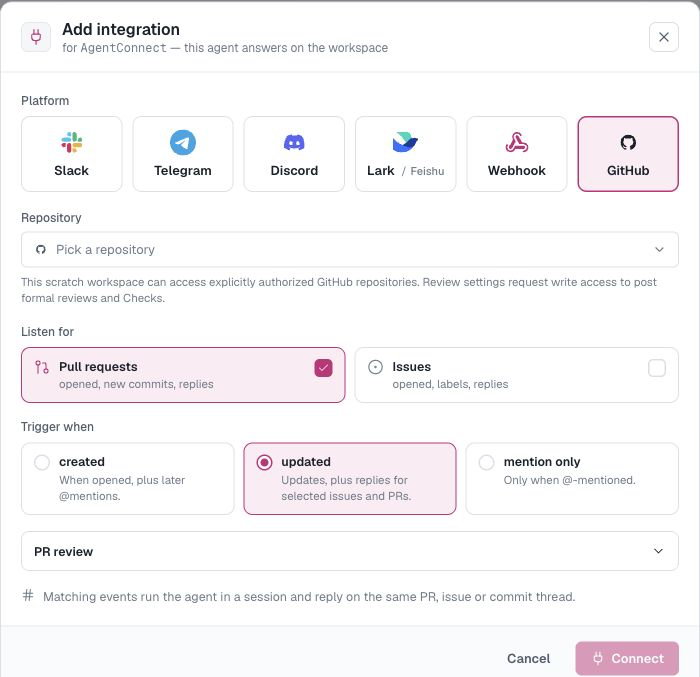
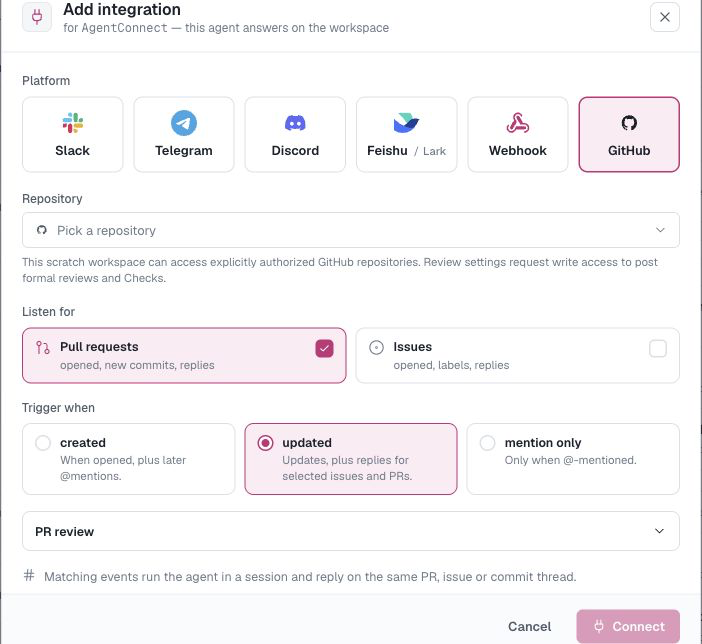
docs: expand screenshot coverage

diff --git a/docs/Getting Started/quickstart.md b/docs/Getting Started/quickstart.md
@@ -20,7 +20,9 @@ Open [AgentConnect Cloud](https://app.agentconnect.md), or the Web URL for your 
 
 Cloud supports GitHub, Google, and Slack sign-in. A self-hosted deployment can choose its own providers through Logto. The default local OSS stack runs without authentication and opens the console directly.
 
-![The AgentConnect sign-in page](https://raw.githubusercontent.com/agentconnect-md/docs/HEAD/images/login.png)
+<p align="center">
+  <img src="https://raw.githubusercontent.com/agentconnect-md/docs/HEAD/images/login.png" alt="The AgentConnect sign-in page" width="680" />
+</p>
 
 ## 2. Connect your daemon
 
@@ -28,7 +30,9 @@ A daemon runs agents in the environment you operate. It detects the runtimes ins
 
 The onboarding page creates a one-time connection command for you. Copy the exact command, run it on the target machine, and leave it running. The page waits for that daemon and continues automatically when it comes online.
 
-![Connect your daemon — the screenshot uses example values in place of a real URL, key, and daemon ID](https://raw.githubusercontent.com/agentconnect-md/docs/HEAD/images/add-daemon.png)
+<p align="center">
+  <img src="https://raw.githubusercontent.com/agentconnect-md/docs/HEAD/images/add-daemon.png" alt="Connect your daemon with example values" width="640" />
+</p>
 
 The foreground command is best for a first run. To keep the daemon running after logout or restart, see [Install the daemon](/docs/install-the-daemon).
 
@@ -54,7 +58,9 @@ After the daemon connects, onboarding reveals the same **Getting started** check
 
 The checklist reflects the current organization state, so work completed elsewhere is checked automatically.
 
-![The completed Getting started checklist with the built-in AgentConnect agent expanded](https://raw.githubusercontent.com/agentconnect-md/docs/HEAD/images/onboarding-checklist.png)
+<p align="center">
+  <img src="https://raw.githubusercontent.com/agentconnect-md/docs/HEAD/images/onboarding-checklist.png" alt="The completed Getting started checklist with the built-in AgentConnect agent expanded" width="780" />
+</p>
 
 ## 5. Start working
 

diff --git a/docs/Build Your Team/tools-and-skills.md b/docs/Build Your Team/tools-and-skills.md
@@ -6,6 +6,10 @@ hidden: false
 
 **Tools & Skills** is the organization library for capabilities your agents may use. Register an MCP provider, connector, or Git skill source once, then explicitly choose which agents receive it. New agents start with an empty tool and skill allowlist.
 
+<p align="center">
+  <img src="https://raw.githubusercontent.com/agentconnect-md/docs/HEAD/images/tools-skills.png" alt="Organization connectors, MCP servers, and skills" width="900" />
+</p>
+
 AgentConnect keeps organization management separate from agent enablement:
 
 | Capability | Add or manage it | Enable it for an agent |
@@ -22,6 +26,10 @@ Open **Tools & Skills** and use **Connectors & MCP servers** to register an upst
 
 - **Add connectors** browses the available OpenConnector providers and walks through their authorization.
 - **Custom MCP provider** connects an HTTP MCP endpoint by URL, with optional upstream headers.
+
+<p align="center">
+  <img src="https://raw.githubusercontent.com/agentconnect-md/docs/HEAD/images/mcp-server.png" alt="Register a custom MCP server" width="520" />
+</p>
 
 Choose **Everyone** or **Selected** team visibility when you add the provider. Header values are write-only after saving, and agents receive access without seeing the stored credential.
 
@@ -52,7 +60,9 @@ Each result registers exactly that skill from its `owner/repo` source. It become
 
 ### Import from GitHub
 
-![Import a Git repository as a skill source](https://raw.githubusercontent.com/agentconnect-md/docs/HEAD/images/skills-import.png)
+<p align="center">
+  <img src="https://raw.githubusercontent.com/agentconnect-md/docs/HEAD/images/skills-import.png" alt="Import a Git repository as a skill source" width="560" />
+</p>
 
 1. Open **Tools & Skills → Skills library** and choose **Import from GitHub**.
 2. Enter `owner/repo` or a GitHub repository URL. The repository should contain each skill in a folder with a `SKILL.md` file.

diff --git a/docs/Connect & Automate/Chat Platforms/slack.md b/docs/Connect & Automate/Chat Platforms/slack.md
@@ -6,6 +6,10 @@ hidden: false
 
 On **AgentConnect Cloud**, the recommended path is the built-in **Add to Slack** app. You approve the workspace installation; AgentConnect completes the OAuth flow and connects it without asking for an App manifest, token, signing secret, or callback URL.
 
+<p align="center">
+  <img src="https://raw.githubusercontent.com/agentconnect-md/docs/HEAD/images/add-integration.png" alt="Install the built-in AgentConnect Slack app" width="640" />
+</p>
+
 ## Add AgentConnect to Slack on Cloud
 
 The built-in Slack app belongs to the built-in `agentconnect` agent — the preset agent AgentConnect creates for every organization. Place that agent on a daemon and choose its runtime and model first, then use either entry point:
@@ -28,6 +32,10 @@ Mention it to start a conversation; unmentioned follow-ups stay in the thread th
 Each discovered channel appears on the agent's Integrations card. Choose **@-mention** (the default), **any message**, or **Off** for inbound activation. Off does not uninstall the app or block scheduled and delegated outbound posts. See [In-conversation commands](/docs/integrations-overview#in-conversation-commands) for stopping, cancelling, queuing, and changing session settings from Slack.
 
 ## Give an agent a custom Slack identity
+
+<p align="center">
+  <img src="https://raw.githubusercontent.com/agentconnect-md/docs/HEAD/images/slack-integration.png" alt="Connect a custom Slack bot identity" width="640" />
+</p>
 
 On the built-in agent, choose **Use a custom bot identity instead** when it needs a dedicated Slack App. Other agents open the custom-identity flow directly. This is also the normal path when a self-hosted deployment does not publish a built-in app.
 

diff --git a/docs/How-to guides/external-memory.md b/docs/How-to guides/external-memory.md
@@ -22,7 +22,9 @@ Choose the reviewed `ai.mem0.memory.oss — local:mem0-oss` installation, enter 
 
 The credential is write-only after saving.
 
-![Register the operator-approved Mem0 connection](https://raw.githubusercontent.com/agentconnect-md/docs/HEAD/images/external-memory-connection.png)
+<p align="center">
+  <img src="https://raw.githubusercontent.com/agentconnect-md/docs/HEAD/images/external-memory-connection.png" alt="Register the operator-approved Mem0 connection" width="560" />
+</p>
 
 ## 2. Bind an agent
 
@@ -37,7 +39,9 @@ Choose recall and capture independently:
 
 Start with **Every turn** recall and **Manual only** capture unless the agent's workflow needs automatic capture.
 
-![Choose external-memory recall and capture policy](https://raw.githubusercontent.com/agentconnect-md/docs/HEAD/images/external-memory-policy.png)
+<p align="center">
+  <img src="https://raw.githubusercontent.com/agentconnect-md/docs/HEAD/images/external-memory-policy.png" alt="Choose external-memory recall and capture policy" width="900" />
+</p>
 
 Save the settings and wait for the connection to become **Ready** before starting the agent with external memory.
 

diff --git a/docs/How-to guides/hand-off-conversations-across-messaging-platforms.md b/docs/How-to guides/hand-off-conversations-across-messaging-platforms.md
@@ -6,6 +6,10 @@ hidden: false
 
 Use this pattern only when the source and destination are **two messaging workspaces you trust**. You should control or explicitly approve both environments, know who can read the destination, and accept its security and retention rules.
 
+<p align="center">
+  <img src="https://raw.githubusercontent.com/agentconnect-md/docs/HEAD/images/add-integration.png" alt="Connect an agent to approved messaging platforms" width="640" />
+</p>
+
 > **Trust boundary:** Connecting an agent to two platforms gives it the ability to move content between them. It does not make an external customer, partner, or community workspace trusted. If either side is not approved for the information, use a one-time, reviewed, and redacted message instead.
 
 Here, _workspace_ means a Slack workspace, Discord server, Lark / Feishu tenant, or known Telegram group or chat — not the agent's code workspace.

diff --git a/docs/Connect & Automate/Triggers & Automation/github.md b/docs/Connect & Automate/Triggers & Automation/github.md
@@ -10,7 +10,9 @@ A GitHub integration makes an agent **watch a repository**: new issues, pull req
 
 On the agent: **Integrations → Add integration → GitHub**.
 
-![Choose a repository and GitHub trigger](https://raw.githubusercontent.com/agentconnect-md/docs/HEAD/images/github-integration.png)
+<p align="center">
+  <img src="https://raw.githubusercontent.com/agentconnect-md/docs/HEAD/images/github-integration.png" alt="Choose a repository and GitHub trigger" width="640" />
+</p>
 
 1. **Repository** — pick from repositories covered by the GitHub App that the signed-in person may use. Public repositories remain available for read-only setup; private repositories require a linked GitHub identity with access. Picking a repo the agent isn't authorized for opens the authorize step right there.
 2. **Listen for** — pull requests, issues, or both.

diff --git a/docs/Build Your Team/Agents/multi-agent-work-modes.md b/docs/Build Your Team/Agents/multi-agent-work-modes.md
@@ -6,6 +6,10 @@ hidden: false
 
 AgentConnect is designed for teams of specialized agents. For most teams, the best starting point is several focused agents, each connected to its own bot or integration. Bring several into one conversation when people want to work with them together, and add agent-to-agent delegation when one agent should coordinate the work.
 
+<p align="center">
+  <img src="https://raw.githubusercontent.com/agentconnect-md/docs/HEAD/images/playground.png" alt="Several agents collaborating in one Playground session" width="780" />
+</p>
+
 Layered specialists are a common next step, especially for pull-request review. Trigger fan-out and shared-bot routing are useful when a workflow specifically needs parallel opinions or one consolidated platform identity.
 
 | Starting point | Work mode | Agents run | Typical use |

diff --git a/docs/Connect & Automate/Chat Platforms/index.md b/docs/Connect & Automate/Chat Platforms/index.md
@@ -6,6 +6,10 @@ hidden: false
 
 Connect agents to [Slack](/docs/slack), [Telegram](/docs/telegram), [Discord](/docs/discord), or [Lark / Feishu](/docs/lark-feishu). Each integration binds an agent to a bot and a set of conversations.
 
+<p align="center">
+  <img src="https://raw.githubusercontent.com/agentconnect-md/docs/HEAD/images/add-integration.png" alt="Choose a chat platform for an agent" width="640" />
+</p>
+
 On AgentConnect Cloud, start Slack with the built-in **Add to Slack** flow. Lark / Feishu also has a recommended one-click setup. Telegram and Discord begin with a bot token from their own platform.
 
 Read [Bots](/docs/bots) to understand reusable bot identities and shared-bot routing. For a practical multi-agent setup, see [One Slack app with different agents by channel](/docs/one-slack-app-across-channels).

diff --git a/docs/Getting Started/how-it-works.md b/docs/Getting Started/how-it-works.md
@@ -6,7 +6,9 @@ hidden: false
 
 AgentConnect is built around one architectural rule: **the Control Plane is not on the live message path.** Agent execution happens inside a daemon in the environment you operate. Platform ingress reaches that daemon directly or through the optional Relay.
 
-![AgentConnect channels and events reach agents running on a daemon, while the Control Plane coordinates over a separate control path](https://raw.githubusercontent.com/agentconnect-md/docs/HEAD/images/how-agentconnect-works.svg)
+<p align="center">
+  <img src="https://raw.githubusercontent.com/agentconnect-md/docs/HEAD/images/how-agentconnect-works.svg" alt="AgentConnect channels and events reach agents running on a daemon, while the Control Plane coordinates over a separate control path" width="920" />
+</p>
 
 ## The four pieces
 

diff --git a/docs/How-to guides/one-slack-app-across-channels.md b/docs/How-to guides/one-slack-app-across-channels.md
@@ -6,6 +6,10 @@ hidden: false
 
 A shared Slack bot lets one Slack App serve several AgentConnect agents. People invite and mention one bot identity, while AgentConnect sends each channel to the agent configured as that channel's default dispatch.
 
+<p align="center">
+  <img src="https://raw.githubusercontent.com/agentconnect-md/docs/HEAD/images/slack-integration.png" alt="Create a Slack bot identity that can be shared across agents" width="640" />
+</p>
+
 This is useful when different channels need different models, repositories, tools, or behavior without installing a separate Slack App for every agent.
 
 This is contextual routing from [Multi-agent work modes](/docs/multi-agent-work-modes#shared-bot-with-contextual-routing): one inbound message selects one agent rather than broadcasting to all of them.

diff --git a/docs/Getting Started/getting-started.md b/docs/Getting Started/getting-started.md
@@ -10,7 +10,9 @@ Give each agent a role, then choose the runtime, model, workspace, memory, tools
 
 A small daemon runs the agents in the environment you operate. One console lets your team configure the fleet, connect channels and triggers, control access, and follow the work they are allowed to see.
 
-![The AgentConnect console — agents across your daemons](https://raw.githubusercontent.com/agentconnect-md/docs/HEAD/images/agents-list.png)
+<p align="center">
+  <img src="https://raw.githubusercontent.com/agentconnect-md/docs/HEAD/images/console-home.png" alt="Start work from the AgentConnect console" width="900" />
+</p>
 
 <Cards>
   <Card title="Get started" href="/docs/quickstart" icon="fa-duotone fa-rocket-launch">Connect a daemon, configure the built-in agent, and finish your team setup</Card>

diff --git a/docs/How-to guides/fast-and-deep-pr-reviews.md b/docs/How-to guides/fast-and-deep-pr-reviews.md
@@ -6,6 +6,10 @@ hidden: false
 
 Use two agents to create a layered review workflow: a fast reviewer covers every pull-request revision, while a more capable model stays idle until a maintainer explicitly asks for a deeper review.
 
+<p align="center">
+  <img src="https://raw.githubusercontent.com/agentconnect-md/docs/HEAD/images/github-integration.png" alt="Configure a pull-request reviewer and its trigger" width="640" />
+</p>
+
 Both agents watch the same repository through one AgentConnect GitHub App. Each has its own runtime, model, instructions, session, and review settings.
 
 This is the layered-specialist pattern from [Multi-agent work modes](/docs/multi-agent-work-modes#layered-or-on-demand-specialists). Compare it with trigger fan-out and direct delegation before configuring the reviewers.
